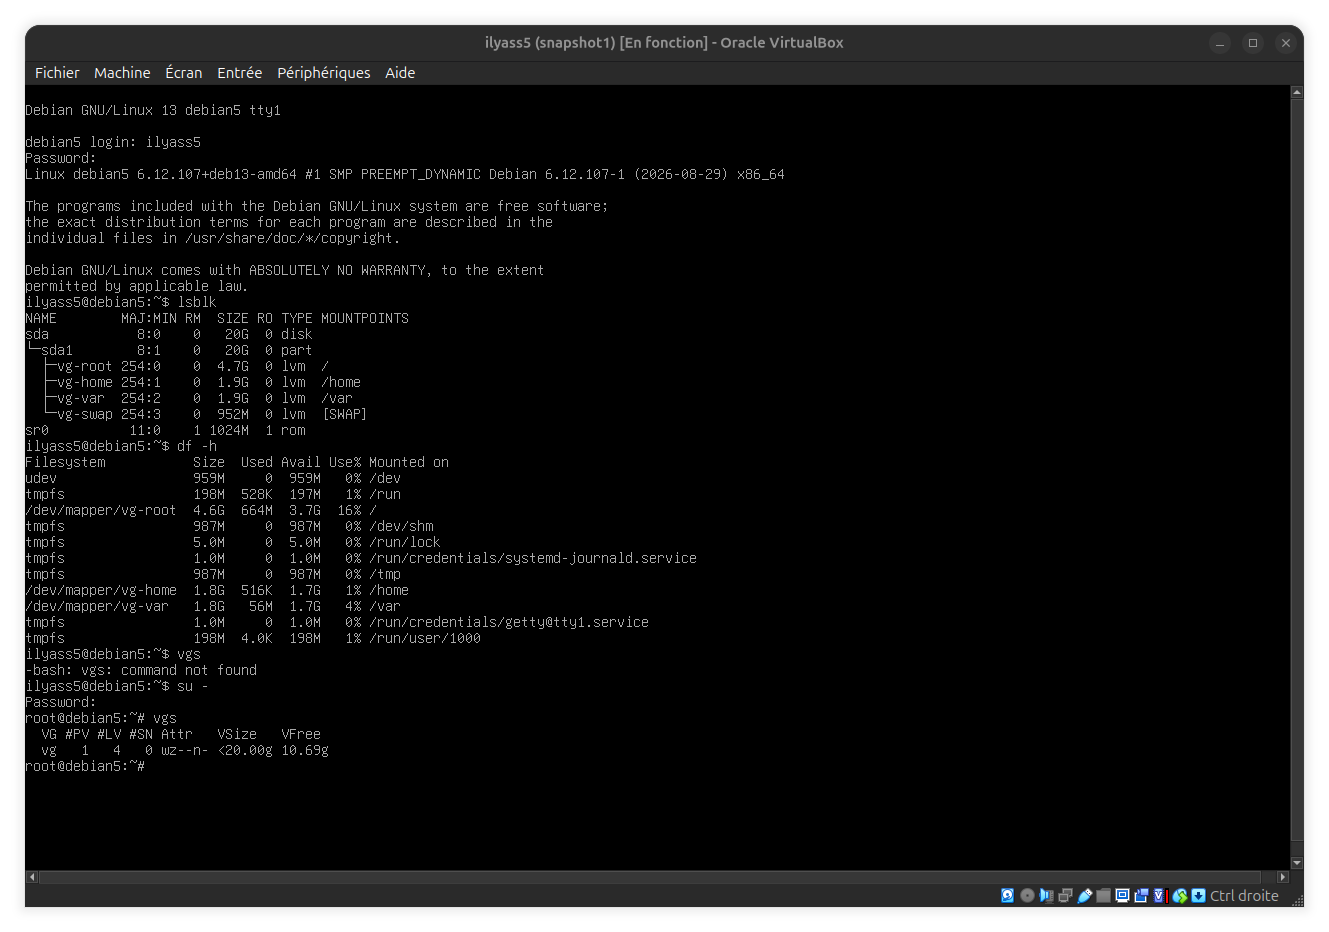
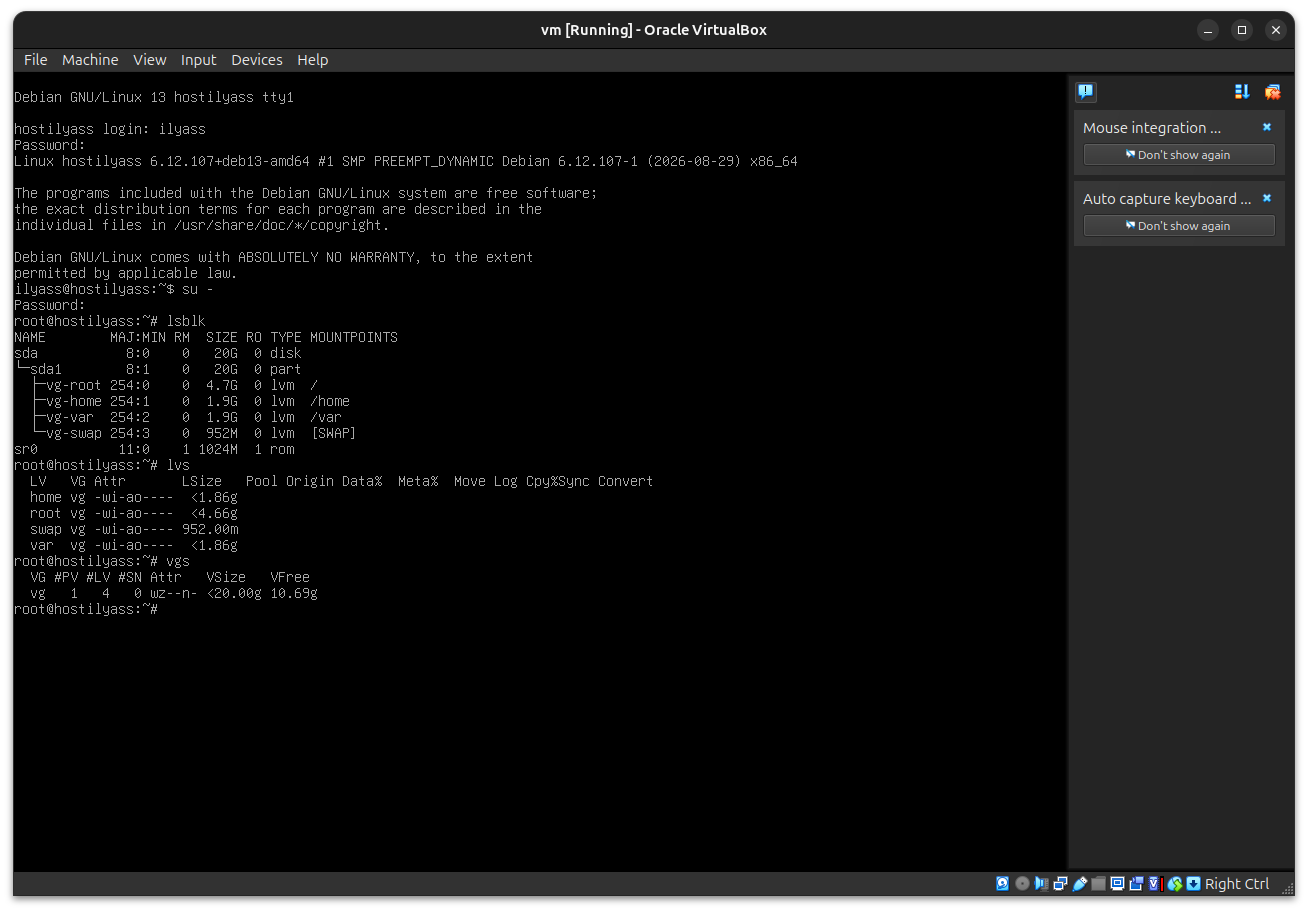
boot report and some details modified

diff --git a/linux/README.md b/linux/README.md
@@ -16,130 +16,119 @@ the goal of this document is to provide a reproducible runbook that other poeple
 
    this is step by step, the installation process used as the base for this linux project.    
    * install VirtualBox
-   * download the [Debian ISO](https://www.debian.org/download)
-   * create a new VM
-   * allocate a virtual disk of at least 20-25 GB 
-   * select the Debian ISO
-   * disable unattended installation
+   * download the [Debian ISO](https://www.debian.org/download) (netinst minimal image)
+   * create a new VM (Name: `vm`, Type: Linux, Version: Debian 64-bit)
+   * attach the Debian ISO and check "Skip Unattended Installation"
+   * allocate at least 1-2 GB RAM and a virtual disk of at least 20-25 GB
    * start the VM and boot from the Debian ISO
-   * select the installation language
-   * configure the location
-   * configure the locale
-   * configure the keyboard
-   * if the automatic DHCP configuration fails skip it for later
-   * configure the hostname
+   * select the installation language (English)
+   * configure the location (United States)
+   * configure the locale (`en_US.UTF-8`)
+   * configure the keyboard keymap (French)
+   * configure the network:
+      - enter hostname: `hostilyass`
+      - leave domain name empty
    * set the root password
-   * create the normal user account
-   * configure the timezone
+   * create the normal user account:
+      - full name: `ilyass`
+      - username: `ilyass`
+      - set the user password
+   * configure the clock (timezone: `Eastern`)
    * select manual partitioning
-   * create a new empty partition table
-   * configure the disk using LVM
-   * create a physical volume (PV) on the partition dedicated to LVM
-   * create a volume group (VG) named `vg`
-   * create logical volumes(LV) for `/`, `/home`, `/var` and swap
+   * select the virtual disk (`/dev/sda`)
+   * configure the Logical Volume Manager (LVM):
+      - create a volume group (VG) named `vg` on `/dev/sda`
+      - create logical volumes (LV) for `/`, `/home`, `/var` and swap
    * assign the appropriate filesystem (ext4) and mount point to each logical volume:
       - root: 5 GB, ext4, mounted on `/`    
       - home: 2 GB, ext4, mounted on `/home`      
       - var: 2 GB, ext4, mounted on `/var`  
       - swap: 1 GB, used as swap   
       - leave the remaining space unallocated in the volume group (VG)  
-   * write the partition changes to disk  
-   * configure the apt mirror (can be skipped)
-   * decline the package usage survey
+   * write the partition changes to disk (select `<Yes>`)
+   * configure the package manager (APT):
+      - decline scanning extra installation media
+      - select archive mirror country (Morocco)
+      - select archive mirror (`deb.debian.org`)
+      - leave HTTP proxy blank
+   * decline the package usage survey (popularity-contest)
    * select software to install: uncheck "Debian desktop environment", keep only "standard system utilities"
-   * install GRUB 
-   * finish the Debian installation with minimal system packages installed
+   * install the GRUB boot loader on the primary drive (`/dev/sda`)
+   * finish the installation and reboot the VM
+   * verify that the system boots directly to a minimal text console login (`tty1`, no desktop environment)
+   * verify LVM configuration with `lsblk`, `lvs`, `vgs`, and `df -h` (to confirm free extents remain in the VG)
    * take a VM snapshot immediately after the clean install
-   * verify LVM configuration with `lsblk`, `df -h`, and `vgs` (to confirm free extents remain in the VG)
 
-   ![Screenshot](./screenshots/snapshot1.png)
+   ![Screenshot](./screenshots/snapshot.png)
    ![Screenshot](./screenshots/installation.png)
-
 
 ## Volume size justification
 
    * `/` root filesystem
 
-      This volume stores the operating system and the main system files. if it runs out of space, the system may   
-      have problems installing packages or performing normal operations.    
+      This volume stores the operating system and the main system files. if it runs out of space, the system may have problems installing packages or performing normal operations.    
 
    * `/home`
 
-      this volume stores users personal files and configuration files. keeping it separate from `/` prevents user    
-      files from using all the space available on the root filesystem. if `/home` becomes full, users may no longer   
-      be able to create or save files.    
+      this volume stores users personal files and configuration files. keeping it separate from `/` prevents user files from using all the space available on the root filesystem. if `/home` becomes full, users may no longer be able to create or save files.    
 
    * `/var`
 
-      this volume contains data that changes while the system is running, such as logs, caches and other service data.  
+      this volume contains data that changes while the system is running, such as logs, caches and other service data. 
       if it becomes full, some services may stop working correctly and new log entries may not be written.     
 
    * `swap`
 
-      Swap provides additional disk space that can be used when the available RAM is low. it is configured as a separate         
-      LVM logical volume so its size can be managed independently from the other filesystems. if swap becomes full while      
-      RAM is also exhausted, the system may start terminating processes because there is no more available memory.
+      Swap provides additional disk space that can be used when the available RAM is low. it is configured as a separate LVM logical volume so its size can be managed independently from the other filesystems. if swap becomes full while RAM is also exhausted, the system may start terminating processes because there is no more available memory.
 
-   Not all the space in the volume group (VG) is allocated during installation. the remaining free space can be checked       
-   with the `vgs` command. Keeping some free extents in the VG makes it possible to extend a logical volume later without     
-   repartitioning the disk.      
+   Not all the space in the volume group (VG) is allocated during installation. the remaining free space can be checked with the `vgs` command. Keeping some free extents in the VG makes it possible to extend a logical volume later without repartitioning the disk.      
 
-   growing a logical volume and its filesystem can be done while the filesystem is mounted, without unmounting it or losing      
-   existing data. Shrinking is more complicated: for ext4, the filesystem must first be unmounted. Because of this, it is        
-   useful to leave some free space in the volume group and increase the logical volumes later when more space is actually     
-   needed, instead of allocating too much space during installation.     
+   growing a logical volume and its filesystem can be done while the filesystem is mounted, without unmounting it or losing existing data. Shrinking is more complicated: for ext4, the filesystem must first be unmounted. Because of this, it is useful to leave some free space in the volume group and increase the logical volumes later when more space is actually needed, instead of allocating too much space during installation.
 
-   let's now demonstrate how to extend a logical volume (LV) while the system is running, without unmounting the filesystem      
-   or losing existing data. first, check the current storage state with the `lvs`, `df -h` and `vgs` commands. Then, extend      
-   the root logical volume by 500 MB with: `lvextend -L +500M /dev/vg/root`.     
+   let's now demonstrate how to extend a logical volume (LV) while the system is running, without unmounting the filesystem or losing existing data. first, check the current storage state with the `lvs`, `df -h` and `vgs` commands. Then, extend the root logical volume by 500 MB with: `lvextend -L +500M /dev/vg/root`.     
 
-   at this point, the logical volume is larger, but the filesystem itself has not yet been resized. Let's now grow the ext4 filesystem with:       
-   `resize2fs /dev/vg/root`      
+   at this point, the logical volume is larger, but the filesystem itself has not yet been resized. Let's now grow the ext4 filesystem with: `resize2fs /dev/vg/root`      
 
-   finally, check the new size with `lvs` and `df -h`. Some free space must remain in the volume group before extending a     
-   logical volume, which is why keeping unused space in the VG during installation is useful.
+   finally, check the new size with `lvs` and `df -h`. Some free space must remain in the volume group before extending a logical volume, which is why keeping unused space in the VG during installation is useful.
 
    ![Screenshot](./screenshots/extendlv.png)
 
 
-## Configure a static IPv4 address and DNS.
+## Network configuration: static IPv4 address and DNS
 
-   debian VM uses the enp0s3 interface, let's configure it with a static IPv4 address and DNS servers by editing /etc/network/interfaces :                 
+   the VM uses the `enp0s3` interface with the VirtualBox NAT network. edit `/etc/network/interfaces` directly (no graphical tool) and replace the DHCP block of `enp0s3` with:
+
    ```
-      auto enp0s3
-      iface enp0s3 inet static
-         address 10.0.2.5
-         netmask 255.255.255.0
-         gateway 10.0.2.2
-         dns-nameservers 1.1.1.1
-   ```      
+   auto enp0s3
+   iface enp0s3 inet static
+       address 10.0.2.5
+       netmask 255.255.255.0
+       gateway 10.0.2.2
+   ```
 
-   note that the IP address, netmask, and gateway must match the VirtualBox network configuration (Bridged Adapter mode), and that     
-   this is done by editing the configuration file directly, without any graphical tool.      
+   the IP address, netmask, and gateway must match the VirtualBox network (here NAT mode).
 
-   at this point apply the configuration with `systemctl restart networking`, or bring the interface down and up with      
-   `ip link set enp0s3 down` and `ip link set enp0s3 up`. then verify the configured IP address and routing table with  
-   `ip addr show enp0s3` and `ip route` commands. the output should confirm that enp0s3 has the configured static IP address  
-   and that the default route uses the configured gateway.        
+   apply the configuration with `systemctl restart networking`, or bring the interface down and up with `ip link set enp0s3 down` and `ip link set enp0s3 up`. then verify with `ip addr show enp0s3` and `ip route`: enp0s3 must have the static address and the default route must use the configured gateway.
 
-## Verify DNS resolution
+   ## DNS configuration
 
-   the `dns-nameservers` line in /etc/network/interfaces is applied to /etc/resolv.conf automatically when the interface comes up. check           
-   that it was written correctly with `cat /etc/resolv.conf`, it should contain a line like `nameserver 1.1.1.1`. if this line is missing,      
-   it can be added directly to /etc/resolv.conf instead, though it may be overwritten the next time the interface is restarted.     
+   set the DNS server directly in `/etc/resolv.conf`:
 
-   note that without a valid DNS server, domain names will not resolve even if the network itself is working correctly.    
+   ```
+   echo "nameserver 1.1.1.1" > /etc/resolv.conf
+   cat /etc/resolv.conf
+   ```
 
-   then test name resolution with `ping google.com`. the output should confirm that the domain name resolves to an IP address and that         
-   packets are being exchanged.      
+   the output must contain `nameserver 1.1.1.1`. without a valid DNS server, domain names do not resolve even if the network works.
 
-## Verify internet connectivity  
+   ## Verify DNS and internet connectivity
 
-   with the static IP, gateway, and DNS all configured, we can confirm that the machine has full access to the internet.            
+   ```
+   ping -c 3 deb.debian.org
+   ping -c 4 8.8.8.8
+   ```
 
-   at this point test raw IP connectivity with `ping -c 4 8.8.8.8`, this confirms connectivity independently of DNS. the output  
-   should show replies with 0% packet loss, confirming that the interface, routing, and internet access are all working correctly. 
-
+   the first command confirms that the name resolves and packets are exchanged. the second confirms raw IP connectivity independently of DNS, with 0% packet loss.
 
    ![Screenshot](./screenshots/network2.png)
 
@@ -148,9 +137,9 @@ the goal of this document is to provide a reproducible runbook that other poeple
 
    we are going to create a service named `myservice`. it runs continuously: it checks whether a specific file exists, recreates it if missing, logs what it did, then sleeps and repeats.
 
-   log in as root (or use `su -`), then create the script on the VM with `nano /home/script.sh` and paste this content:
+   log in as root (or use `su -`), then create the script on the VM with `nano /home/myservice.sh` and paste this content:
 
-   `/home/script.sh`:
+   `/home/myservice.sh`:
    ```bash
       #!/bin/bash
 
@@ -166,7 +155,7 @@ the goal of this document is to provide a reproducible runbook that other poeple
           sleep 2
       done
    ```
-   save and exit nano (`Ctrl+O`, `Enter`, `Ctrl+X`), then make the script executable: `chmod +x /home/script.sh`     
+   save and exit nano (`Ctrl+O`, `Enter`, `Ctrl+X`), then make the script executable: `chmod +x /home/myservice.sh`     
 
 ## The systemd unit
 
@@ -181,7 +170,7 @@ the goal of this document is to provide a reproducible runbook that other poeple
 
       [Service]
       Type=simple
-      ExecStart=/home/script.sh
+      ExecStart=/home/myservice.sh
       Restart=always
 
       [Install]
@@ -218,7 +207,8 @@ the goal of this document is to provide a reproducible runbook that other poeple
    confirm it survives a crash: kill the process manually and verify systemd restarts it automatically.     
    
    ```
-      pkill -f script.sh
+      systemctl show -p MainPID myservice.service
+      kill <pid>
       systemctl status myservice.service
    ```
 
@@ -228,3 +218,42 @@ the goal of this document is to provide a reproducible runbook that other poeple
 
    ![Screenshot](./screenshots/myservice.png)
    ![Screenshot](./screenshots/systemdunit-journal.png)
+
+
+
+## Boot Report
+
+   1. Slowest units at boot
+
+```
+systemd-analyze blame
+```
+
+   ![Screenshot](./screenshots/boot-blame.png)
+
+   According to the output of the command `systemd-analyze blame`, the slowest units during boot for example are:    
+      * `dev-mapper-vg\x2droot.device` (385 ms)    
+      * `apt-daily-upgrade.service` (315 ms)       
+      * `modprobe@drm.service` (207 ms)         
+      * `myservice.service` (197 ms)      
+      * `apparmor.service` (193 ms)    
+
+   the timings change slightly from one boot to another, these values come from the boot shown in the screenshot above.
+
+   2. Unit analysis (`dev-mapper-vg\x2droot.device`)
+
+      - Role :
+         it is a device unit that represents the logical volume `/dev/mapper/vg-root`, which holds the root filesystem. systemd considers it active once the device has been detected and is available, and the root filesystem cannot be mounted before that.
+      - Why it takes time (385 ms) ?:
+         it mostly waits rather than computes: the virtual disk has to be detected, LVM has to scan and activate the volume group `vg`, and udev has to process the event for the new device. It is one of the first things to happen at boot, so it also accumulates the time spent waiting for the (virtual) hardware.
+
+   3. Difference between `enabled` and `active`
+
+      - **enabled:** the service is configured to start automatically at boot (a symbolic link exists in `/etc/systemd/system/multi-user.target.wants/`).
+      - **active:** the service is started and running right now.
+      - **Example:** a service can be `enabled` but inactive (stopped manually with `systemctl stop`), or `disabled` but active (started manually with `systemctl start` without enabling it).
+
+```
+systemctl is-enabled myservice.service
+systemctl is-active myservice.service
+```
